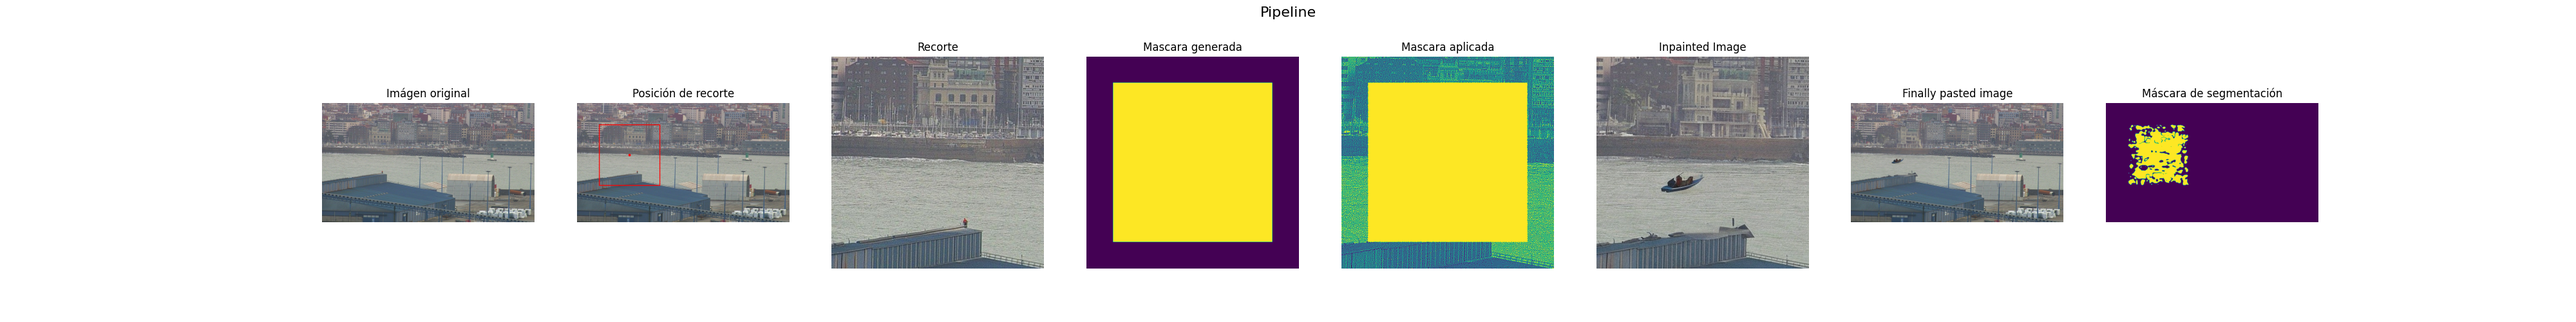
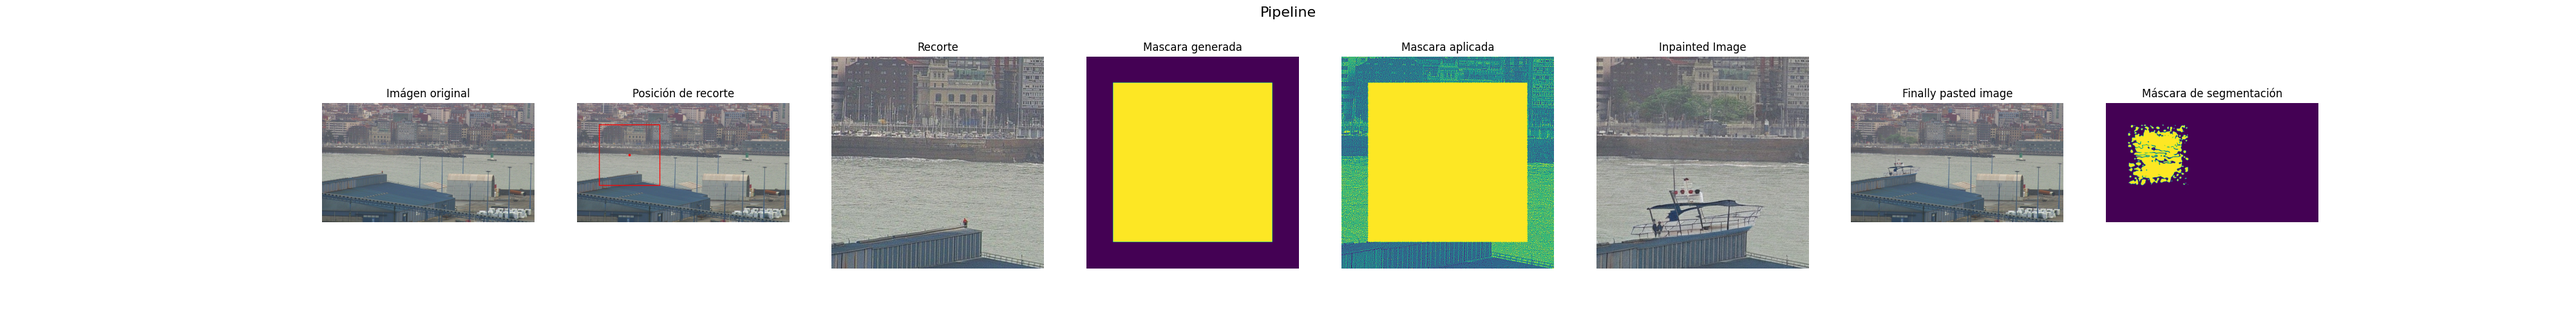
f

diff --git a/pipelines/harmonization/main.py b/pipelines/harmonization/main.py
@@ -59,7 +59,7 @@ class HarmonizationDatasetGenerator:
         harmonization_mask = self.generate_harmonization_mask(cleaned_boat, cropped_image)
         harmonized_image = self.harmonizer.harmonize(composited_image, harmonization_mask)
         inpainting_mask, fg_shape = self.generate_inpainting_mask(cleaned_boat, cropped_image, fg_shape)
-        inpainted_image = self.inpainter.inpaint(harmonized_image, inpainting_mask, prompt="A boat")
+        inpainted_image = self.inpainter.inpaint(harmonized_image, inpainting_mask, prompt="A cargo ship")
         pasted = self.image_paster.paste(
             original_image=image,
             pasted_image=inpainted_image,
@@ -78,7 +78,7 @@ class HarmonizationDatasetGenerator:
                 pasted,
                 draw_square_inside_image(pasted, fg_shape, point_of_crop, border_width=7, center_radius=10)
             ],
-            ["Imagen original", "Posición de recorte", "Recorte", "Barco incluido", "Mascara de harmonización","Imágen harmonizada",  "Máscara de inpainting", "Imagen con inpainting realizado", "Imágen original con región copiada", "Bounding box añadida"],
+            ["Imagen original", "Posición de recorte", "Recorte", "Barco incluído", "Máscara de harmonización","Imagen harmonizada",  "Máscara de inpainting", "Imagen con inpainting realizado", "Imagen original con región copiada", "Bounding box añadida"],
             main_title="Pipeline",
             save_as=save_as
         )
@@ -113,7 +113,7 @@ for iteration in range(0, 1):
         image_compositor=ImageCompositor(),
         image_shape_adjuster=TransparentImageAdjuster(),
         harmonization_mask_generator=TransparentMaskGenerator(fill=True),
-        inpainting_mask_generator=TransparentMaskGenerator(fill=False, border_size=21, centered_border=True),
+        inpainting_mask_generator=TransparentMaskGenerator(fill=False, border_size=17, centered_border=True),
         transparent_image_cleaner=TransparentImageCleaner(threshold=0.4),
         inpainter=StableDiffusionImageInpainter(),
         harmonizer=LibcomImageHarmonizer()
